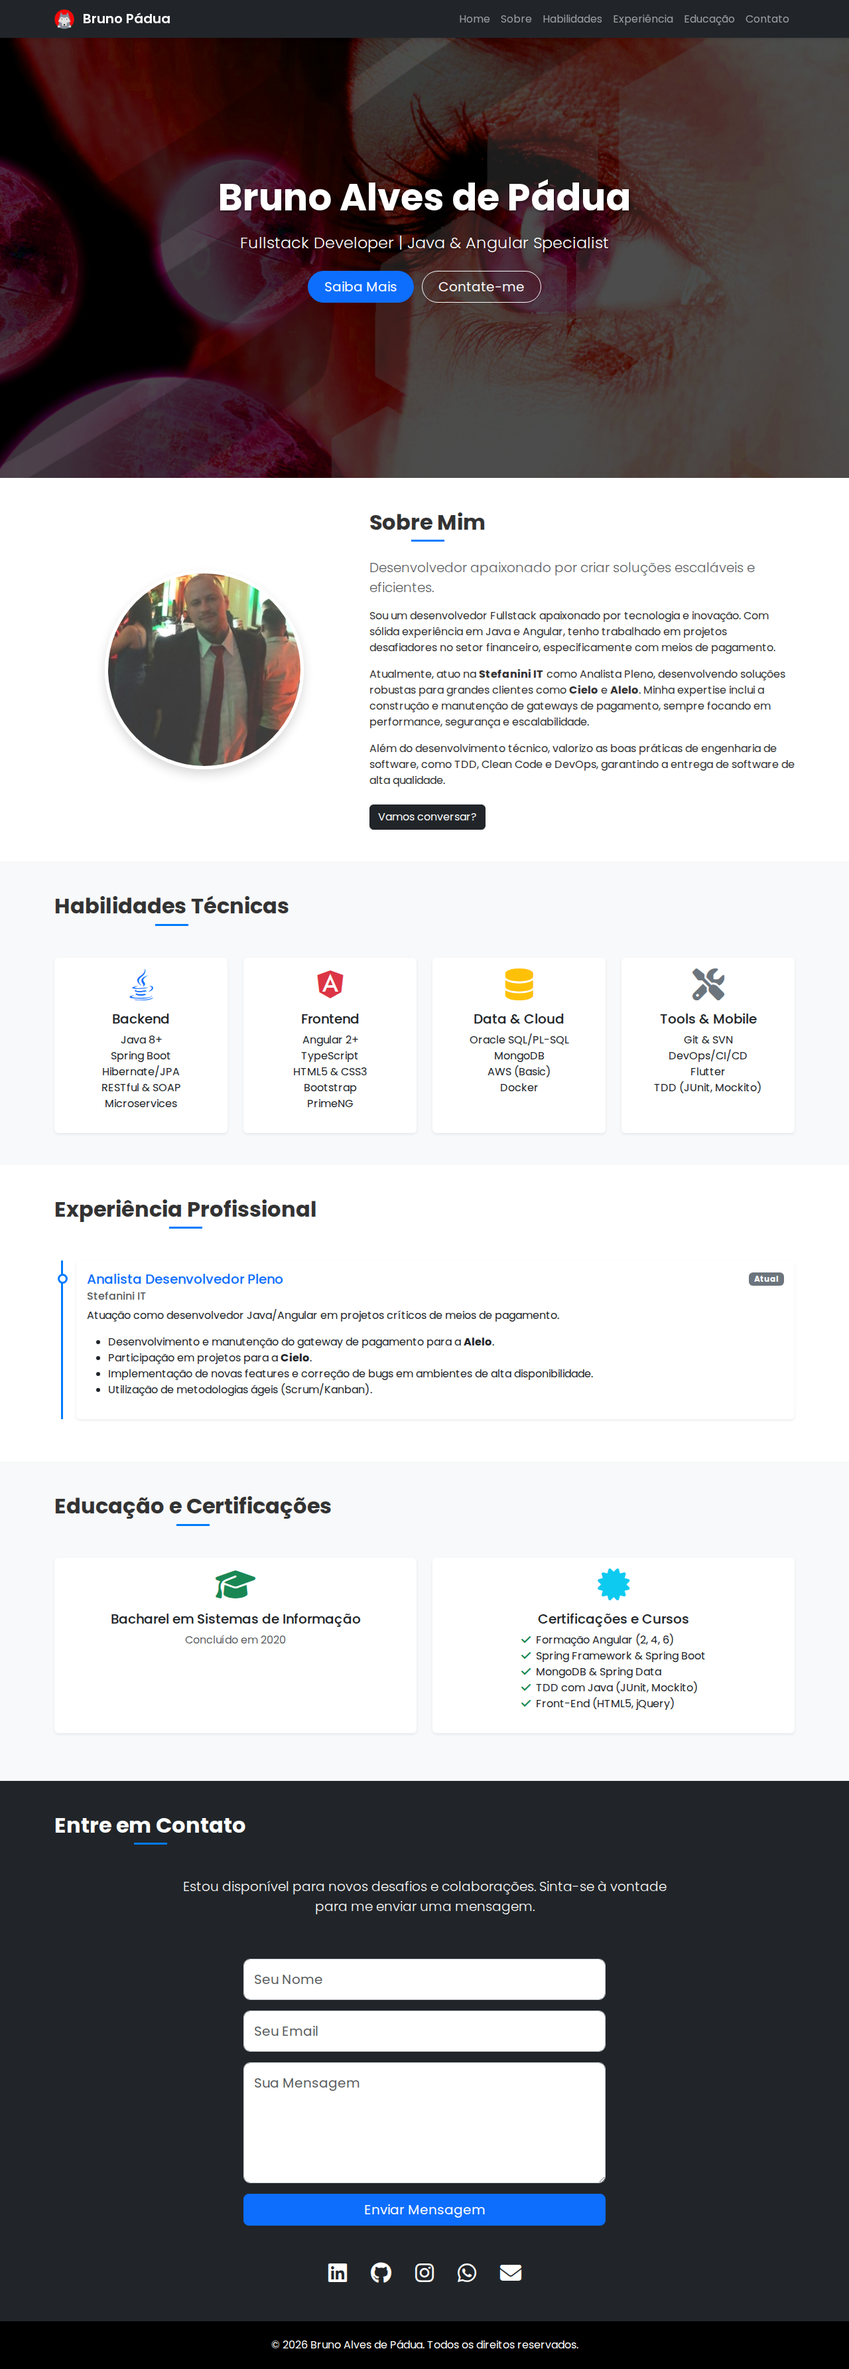
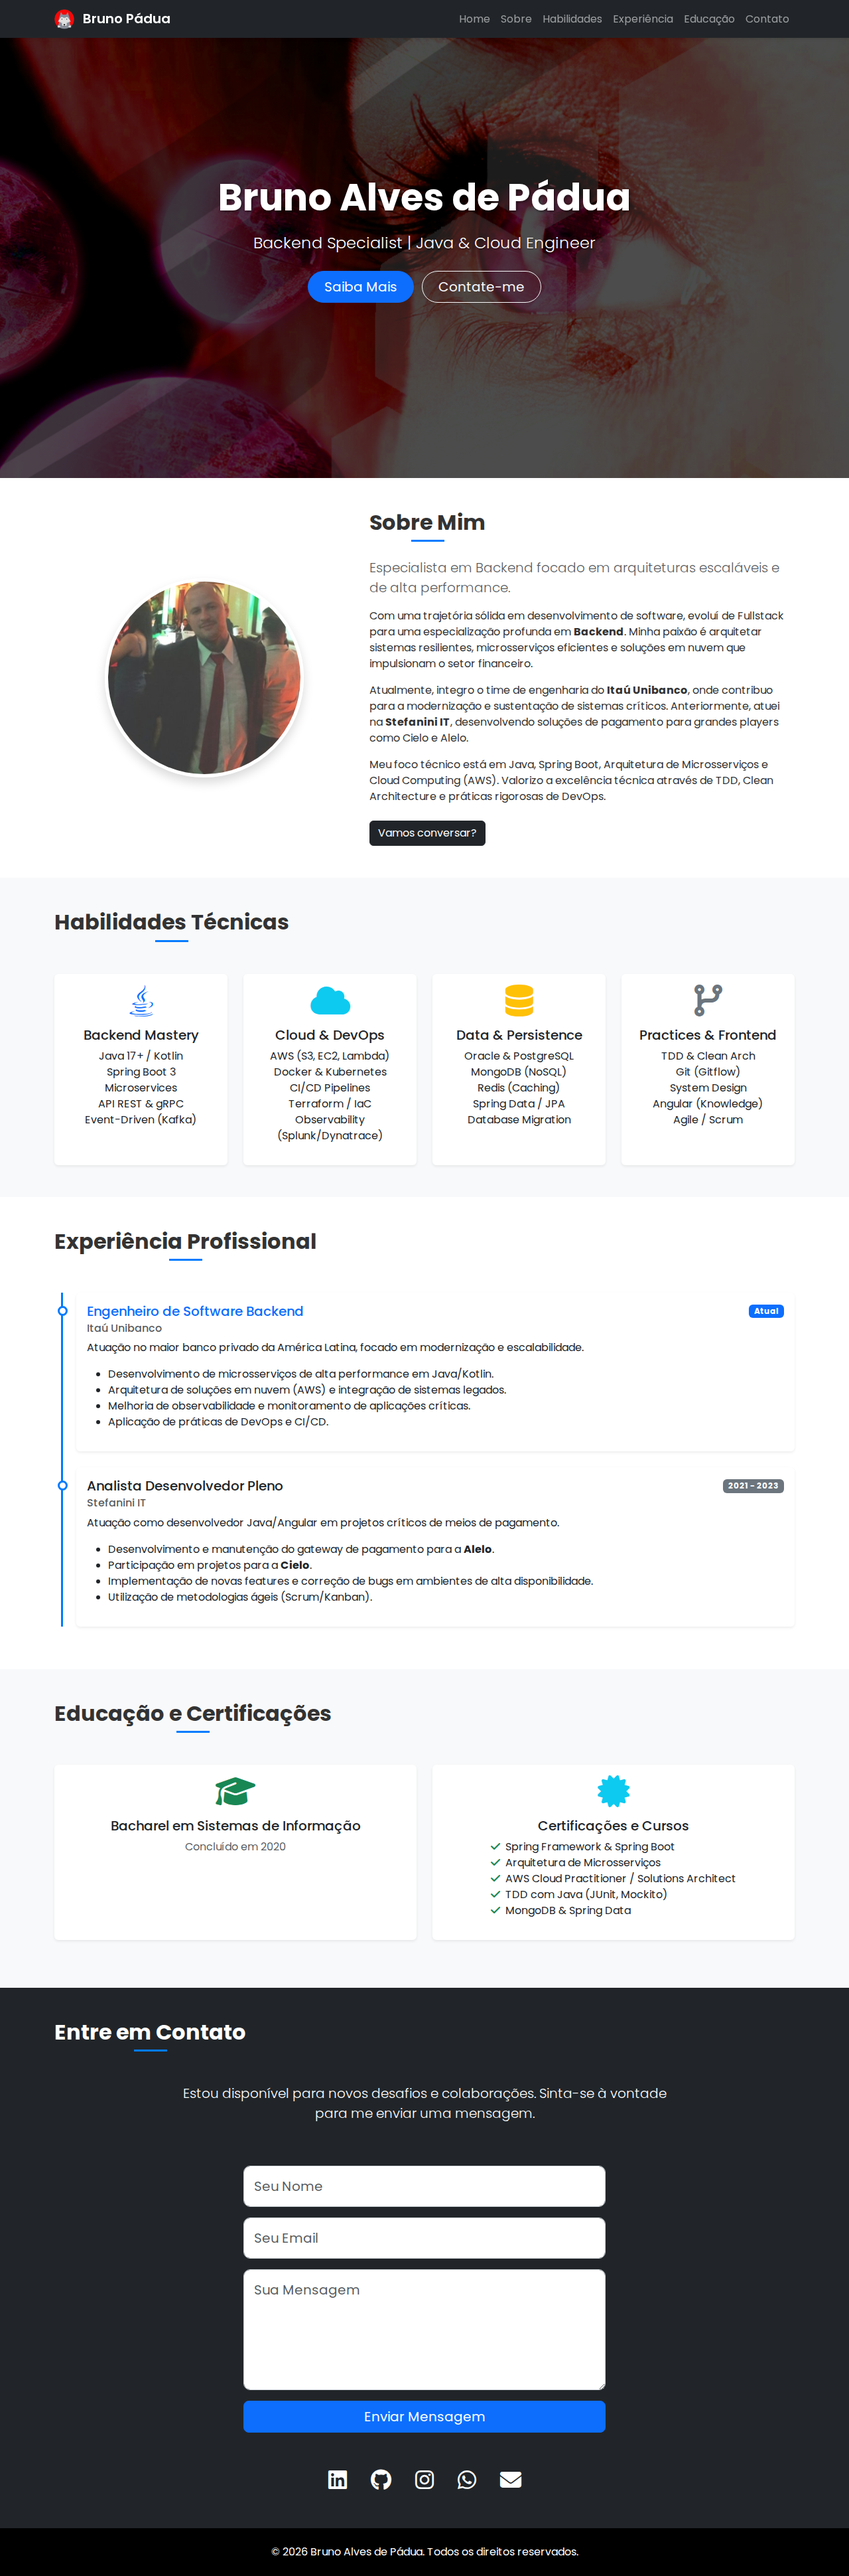
Update portfolio content to Backend Specialist at Itaú Unibanco

diff --git a/index.html b/index.html
@@ -3,10 +3,10 @@
 <head>
     <meta charset="UTF-8">
     <meta name="viewport" content="width=device-width, initial-scale=1.0">
-    <meta name="description" content="Bruno Alves de Pádua - Fullstack Developer Portfolio">
-    <meta name="keywords" content="Java, Angular, Spring Boot, Fullstack Developer, Portfolio">
+    <meta name="description" content="Bruno Alves de Pádua - Backend Specialist & Cloud Engineer Portfolio">
+    <meta name="keywords" content="Java, Spring Boot, Microservices, Cloud, AWS, Backend Specialist, Portfolio">
     <meta name="author" content="Bruno Alves de Pádua">
-    <title>Bruno Alves de Pádua | Fullstack Developer</title>
+    <title>Bruno Alves de Pádua | Backend Specialist</title>
     <!-- Bootstrap 5 CSS -->
     <link href="https://cdn.jsdelivr.net/npm/bootstrap@5.3.0/dist/css/bootstrap.min.css" rel="stylesheet">
     <!-- FontAwesome -->
@@ -58,7 +58,7 @@
     <header id="home" class="hero-section d-flex align-items-center text-white">
         <div class="container text-center">
             <h1 class="display-4 fw-bold mb-3">Bruno Alves de Pádua</h1>
-            <p class="lead mb-4">Fullstack Developer | Java & Angular Specialist</p>
+            <p class="lead mb-4">Backend Specialist | Java & Cloud Engineer</p>
             <a href="#about" class="btn btn-primary btn-lg rounded-pill px-4">Saiba Mais</a>
             <a href="#contact" class="btn btn-outline-light btn-lg rounded-pill px-4 ms-2">Contate-me</a>
         </div>
@@ -73,11 +73,11 @@
                 </div>
                 <div class="col-md-7">
                     <h2 class="section-title mb-4">Sobre Mim</h2>
-                    <p class="lead text-muted">Desenvolvedor apaixonado por criar soluções escaláveis e eficientes.</p>
+                    <p class="lead text-muted">Especialista em Backend focado em arquiteturas escaláveis e de alta performance.</p>
                     <div class="about-content">
-                        <p>Sou um desenvolvedor Fullstack apaixonado por tecnologia e inovação. Com sólida experiência em Java e Angular, tenho trabalhado em projetos desafiadores no setor financeiro, especificamente com meios de pagamento.</p>
-                        <p>Atualmente, atuo na <strong>Stefanini IT</strong> como Analista Pleno, desenvolvendo soluções robustas para grandes clientes como <strong>Cielo</strong> e <strong>Alelo</strong>. Minha expertise inclui a construção e manutenção de gateways de pagamento, sempre focando em performance, segurança e escalabilidade.</p>
-                        <p>Além do desenvolvimento técnico, valorizo as boas práticas de engenharia de software, como TDD, Clean Code e DevOps, garantindo a entrega de software de alta qualidade.</p>
+                        <p>Com uma trajetória sólida em desenvolvimento de software, evoluí de Fullstack para uma especialização profunda em <strong>Backend</strong>. Minha paixão é arquitetar sistemas resilientes, microsserviços eficientes e soluções em nuvem que impulsionam o setor financeiro.</p>
+                        <p>Atualmente, integro o time de engenharia do <strong>Itaú Unibanco</strong>, onde contribuo para a modernização e sustentação de sistemas críticos. Anteriormente, atuei na <strong>Stefanini IT</strong>, desenvolvendo soluções de pagamento para grandes players como Cielo e Alelo.</p>
+                        <p>Meu foco técnico está em Java, Spring Boot, Arquitetura de Microsserviços e Cloud Computing (AWS). Valorizo a excelência técnica através de TDD, Clean Architecture e práticas rigorosas de DevOps.</p>
                     </div>
                     <div class="mt-4">
                         <a href="#contact" class="btn btn-dark">Vamos conversar?</a>
@@ -96,13 +96,13 @@
                     <div class="card h-100 shadow-sm border-0">
                         <div class="card-body text-center">
                             <i class="fab fa-java fa-3x text-primary mb-3"></i>
-                            <h5 class="card-title">Backend</h5>
+                            <h5 class="card-title">Backend Mastery</h5>
                             <ul class="list-unstyled">
-                                <li>Java 8+</li>
-                                <li>Spring Boot</li>
-                                <li>Hibernate/JPA</li>
-                                <li>RESTful & SOAP</li>
+                                <li>Java 17+ / Kotlin</li>
+                                <li>Spring Boot 3</li>
                                 <li>Microservices</li>
+                                <li>API REST & gRPC</li>
+                                <li>Event-Driven (Kafka)</li>
                             </ul>
                         </div>
                     </div>
@@ -110,14 +110,14 @@
                 <div class="col-md-6 col-lg-3">
                     <div class="card h-100 shadow-sm border-0">
                         <div class="card-body text-center">
-                            <i class="fab fa-angular fa-3x text-danger mb-3"></i>
-                            <h5 class="card-title">Frontend</h5>
+                            <i class="fas fa-cloud fa-3x text-info mb-3"></i>
+                            <h5 class="card-title">Cloud & DevOps</h5>
                             <ul class="list-unstyled">
-                                <li>Angular 2+</li>
-                                <li>TypeScript</li>
-                                <li>HTML5 & CSS3</li>
-                                <li>Bootstrap</li>
-                                <li>PrimeNG</li>
+                                <li>AWS (S3, EC2, Lambda)</li>
+                                <li>Docker & Kubernetes</li>
+                                <li>CI/CD Pipelines</li>
+                                <li>Terraform / IaC</li>
+                                <li>Observability (Splunk/Dynatrace)</li>
                             </ul>
                         </div>
                     </div>
@@ -126,12 +126,13 @@
                     <div class="card h-100 shadow-sm border-0">
                         <div class="card-body text-center">
                             <i class="fas fa-database fa-3x text-warning mb-3"></i>
-                            <h5 class="card-title">Data & Cloud</h5>
+                            <h5 class="card-title">Data & Persistence</h5>
                             <ul class="list-unstyled">
-                                <li>Oracle SQL/PL-SQL</li>
-                                <li>MongoDB</li>
-                                <li>AWS (Basic)</li>
-                                <li>Docker</li>
+                                <li>Oracle & PostgreSQL</li>
+                                <li>MongoDB (NoSQL)</li>
+                                <li>Redis (Caching)</li>
+                                <li>Spring Data / JPA</li>
+                                <li>Database Migration</li>
                             </ul>
                         </div>
                     </div>
@@ -139,13 +140,14 @@
                 <div class="col-md-6 col-lg-3">
                     <div class="card h-100 shadow-sm border-0">
                         <div class="card-body text-center">
-                            <i class="fas fa-tools fa-3x text-secondary mb-3"></i>
-                            <h5 class="card-title">Tools & Mobile</h5>
+                            <i class="fas fa-code-branch fa-3x text-secondary mb-3"></i>
+                            <h5 class="card-title">Practices & Frontend</h5>
                             <ul class="list-unstyled">
-                                <li>Git & SVN</li>
-                                <li>DevOps/CI/CD</li>
-                                <li>Flutter</li>
-                                <li>TDD (JUnit, Mockito)</li>
+                                <li>TDD & Clean Arch</li>
+                                <li>Git (Gitflow)</li>
+                                <li>System Design</li>
+                                <li>Angular (Knowledge)</li>
+                                <li>Agile / Scrum</li>
                             </ul>
                         </div>
                     </div>
@@ -159,11 +161,28 @@
         <div class="container">
             <h2 class="text-center section-title mb-5">Experiência Profissional</h2>
             <div class="timeline">
+                <div class="card mb-4 border-0 shadow-sm">
+                    <div class="card-body">
+                        <div class="d-flex justify-content-between align-items-center mb-2">
+                            <h5 class="card-title mb-0 text-primary">Engenheiro de Software Backend</h5>
+                            <span class="badge bg-primary">Atual</span>
+                        </div>
+                        <h6 class="card-subtitle mb-2 text-muted">Itaú Unibanco</h6>
+                        <p class="card-text">Atuação no maior banco privado da América Latina, focado em modernização e escalabilidade.</p>
+                        <ul>
+                            <li>Desenvolvimento de microsserviços de alta performance em Java/Kotlin.</li>
+                            <li>Arquitetura de soluções em nuvem (AWS) e integração de sistemas legados.</li>
+                            <li>Melhoria de observabilidade e monitoramento de aplicações críticas.</li>
+                            <li>Aplicação de práticas de DevOps e CI/CD.</li>
+                        </ul>
+                    </div>
+                </div>
+
                 <div class="card mb-3 border-0 shadow-sm">
                     <div class="card-body">
                         <div class="d-flex justify-content-between align-items-center mb-2">
-                            <h5 class="card-title mb-0 text-primary">Analista Desenvolvedor Pleno</h5>
-                            <span class="badge bg-secondary">Atual</span>
+                            <h5 class="card-title mb-0 text-dark">Analista Desenvolvedor Pleno</h5>
+                            <span class="badge bg-secondary">2021 - 2023</span>
                         </div>
                         <h6 class="card-subtitle mb-2 text-muted">Stefanini IT</h6>
                         <p class="card-text">Atuação como desenvolvedor Java/Angular em projetos críticos de meios de pagamento.</p>
@@ -175,7 +194,6 @@
                         </ul>
                     </div>
                 </div>
-                 <!-- Adicione mais experiências aqui conforme necessário -->
             </div>
         </div>
     </section>
@@ -200,11 +218,11 @@
                             <i class="fas fa-certificate fa-3x text-info mb-3"></i>
                             <h5 class="card-title">Certificações e Cursos</h5>
                             <ul class="list-unstyled text-start d-inline-block">
-                                <li><i class="fas fa-check text-success me-2"></i>Formação Angular (2, 4, 6)</li>
                                 <li><i class="fas fa-check text-success me-2"></i>Spring Framework & Spring Boot</li>
-                                <li><i class="fas fa-check text-success me-2"></i>MongoDB & Spring Data</li>
+                                <li><i class="fas fa-check text-success me-2"></i>Arquitetura de Microsserviços</li>
+                                <li><i class="fas fa-check text-success me-2"></i>AWS Cloud Practitioner / Solutions Architect</li>
                                 <li><i class="fas fa-check text-success me-2"></i>TDD com Java (JUnit, Mockito)</li>
-                                <li><i class="fas fa-check text-success me-2"></i>Front-End (HTML5, jQuery)</li>
+                                <li><i class="fas fa-check text-success me-2"></i>MongoDB & Spring Data</li>
                             </ul>
                         </div>
                     </div>
